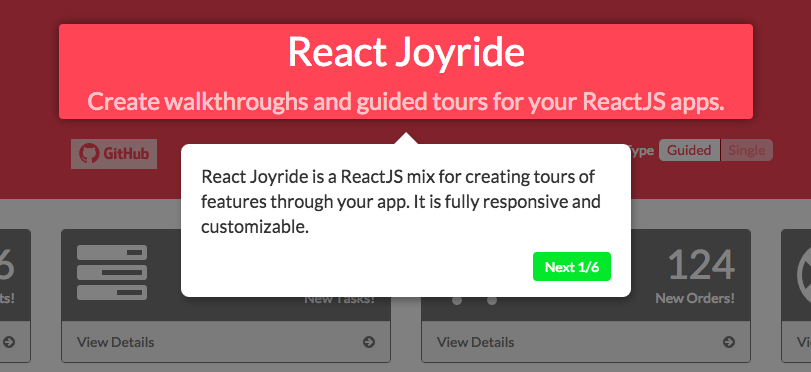
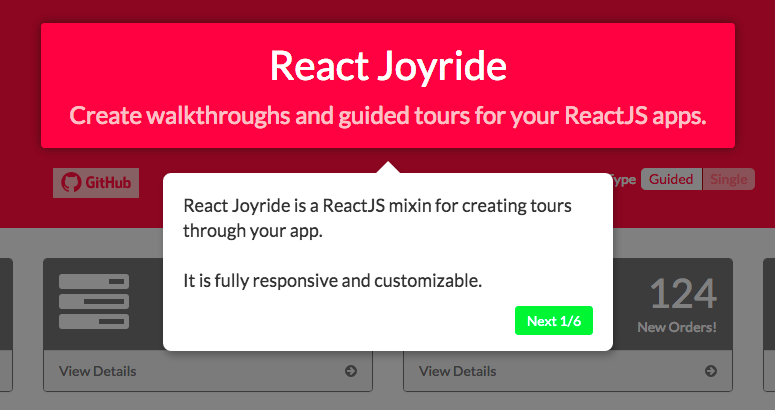
fix intro spacing

diff --git a/app/styles/main.scss b/app/styles/main.scss
@@ -34,7 +34,11 @@ a {
 .main-header {
   background-color: $link-color;
   border-color: darken($link-color, 5);
-  padding: 3rem 0;
+  padding: 2rem 0;
+
+  .intro {
+    padding: 1.5rem 0;
+  }
 
   h1 {
     color: #fff;
